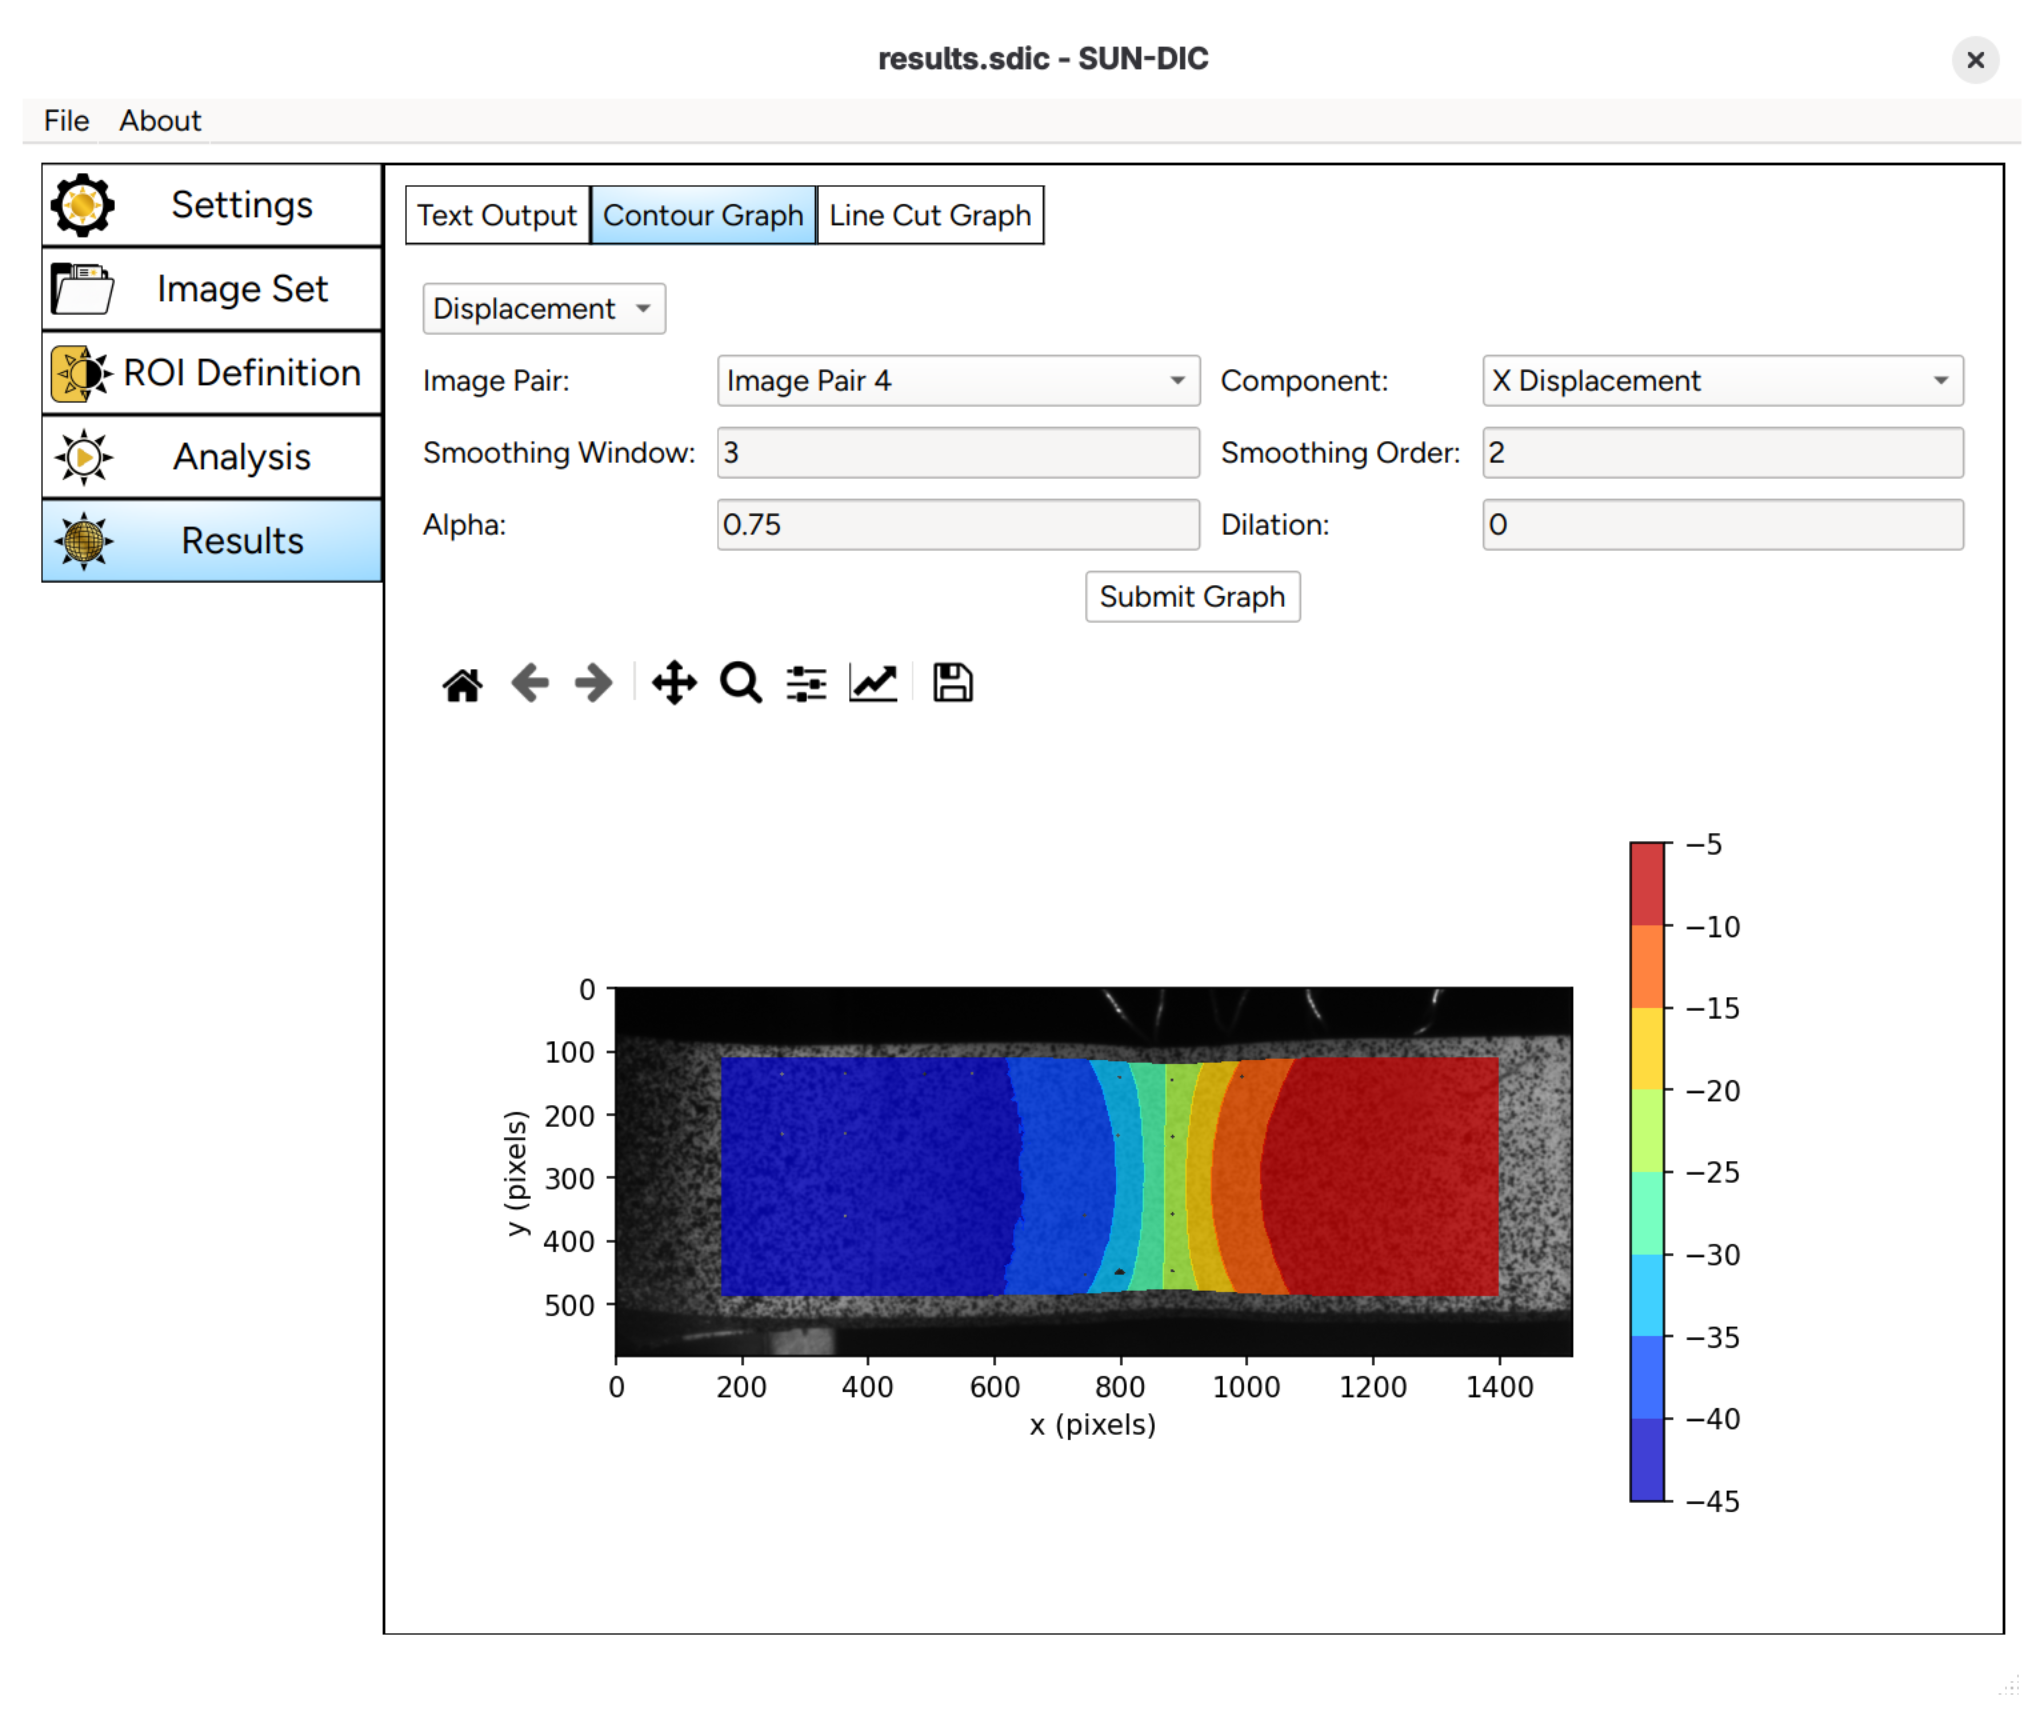
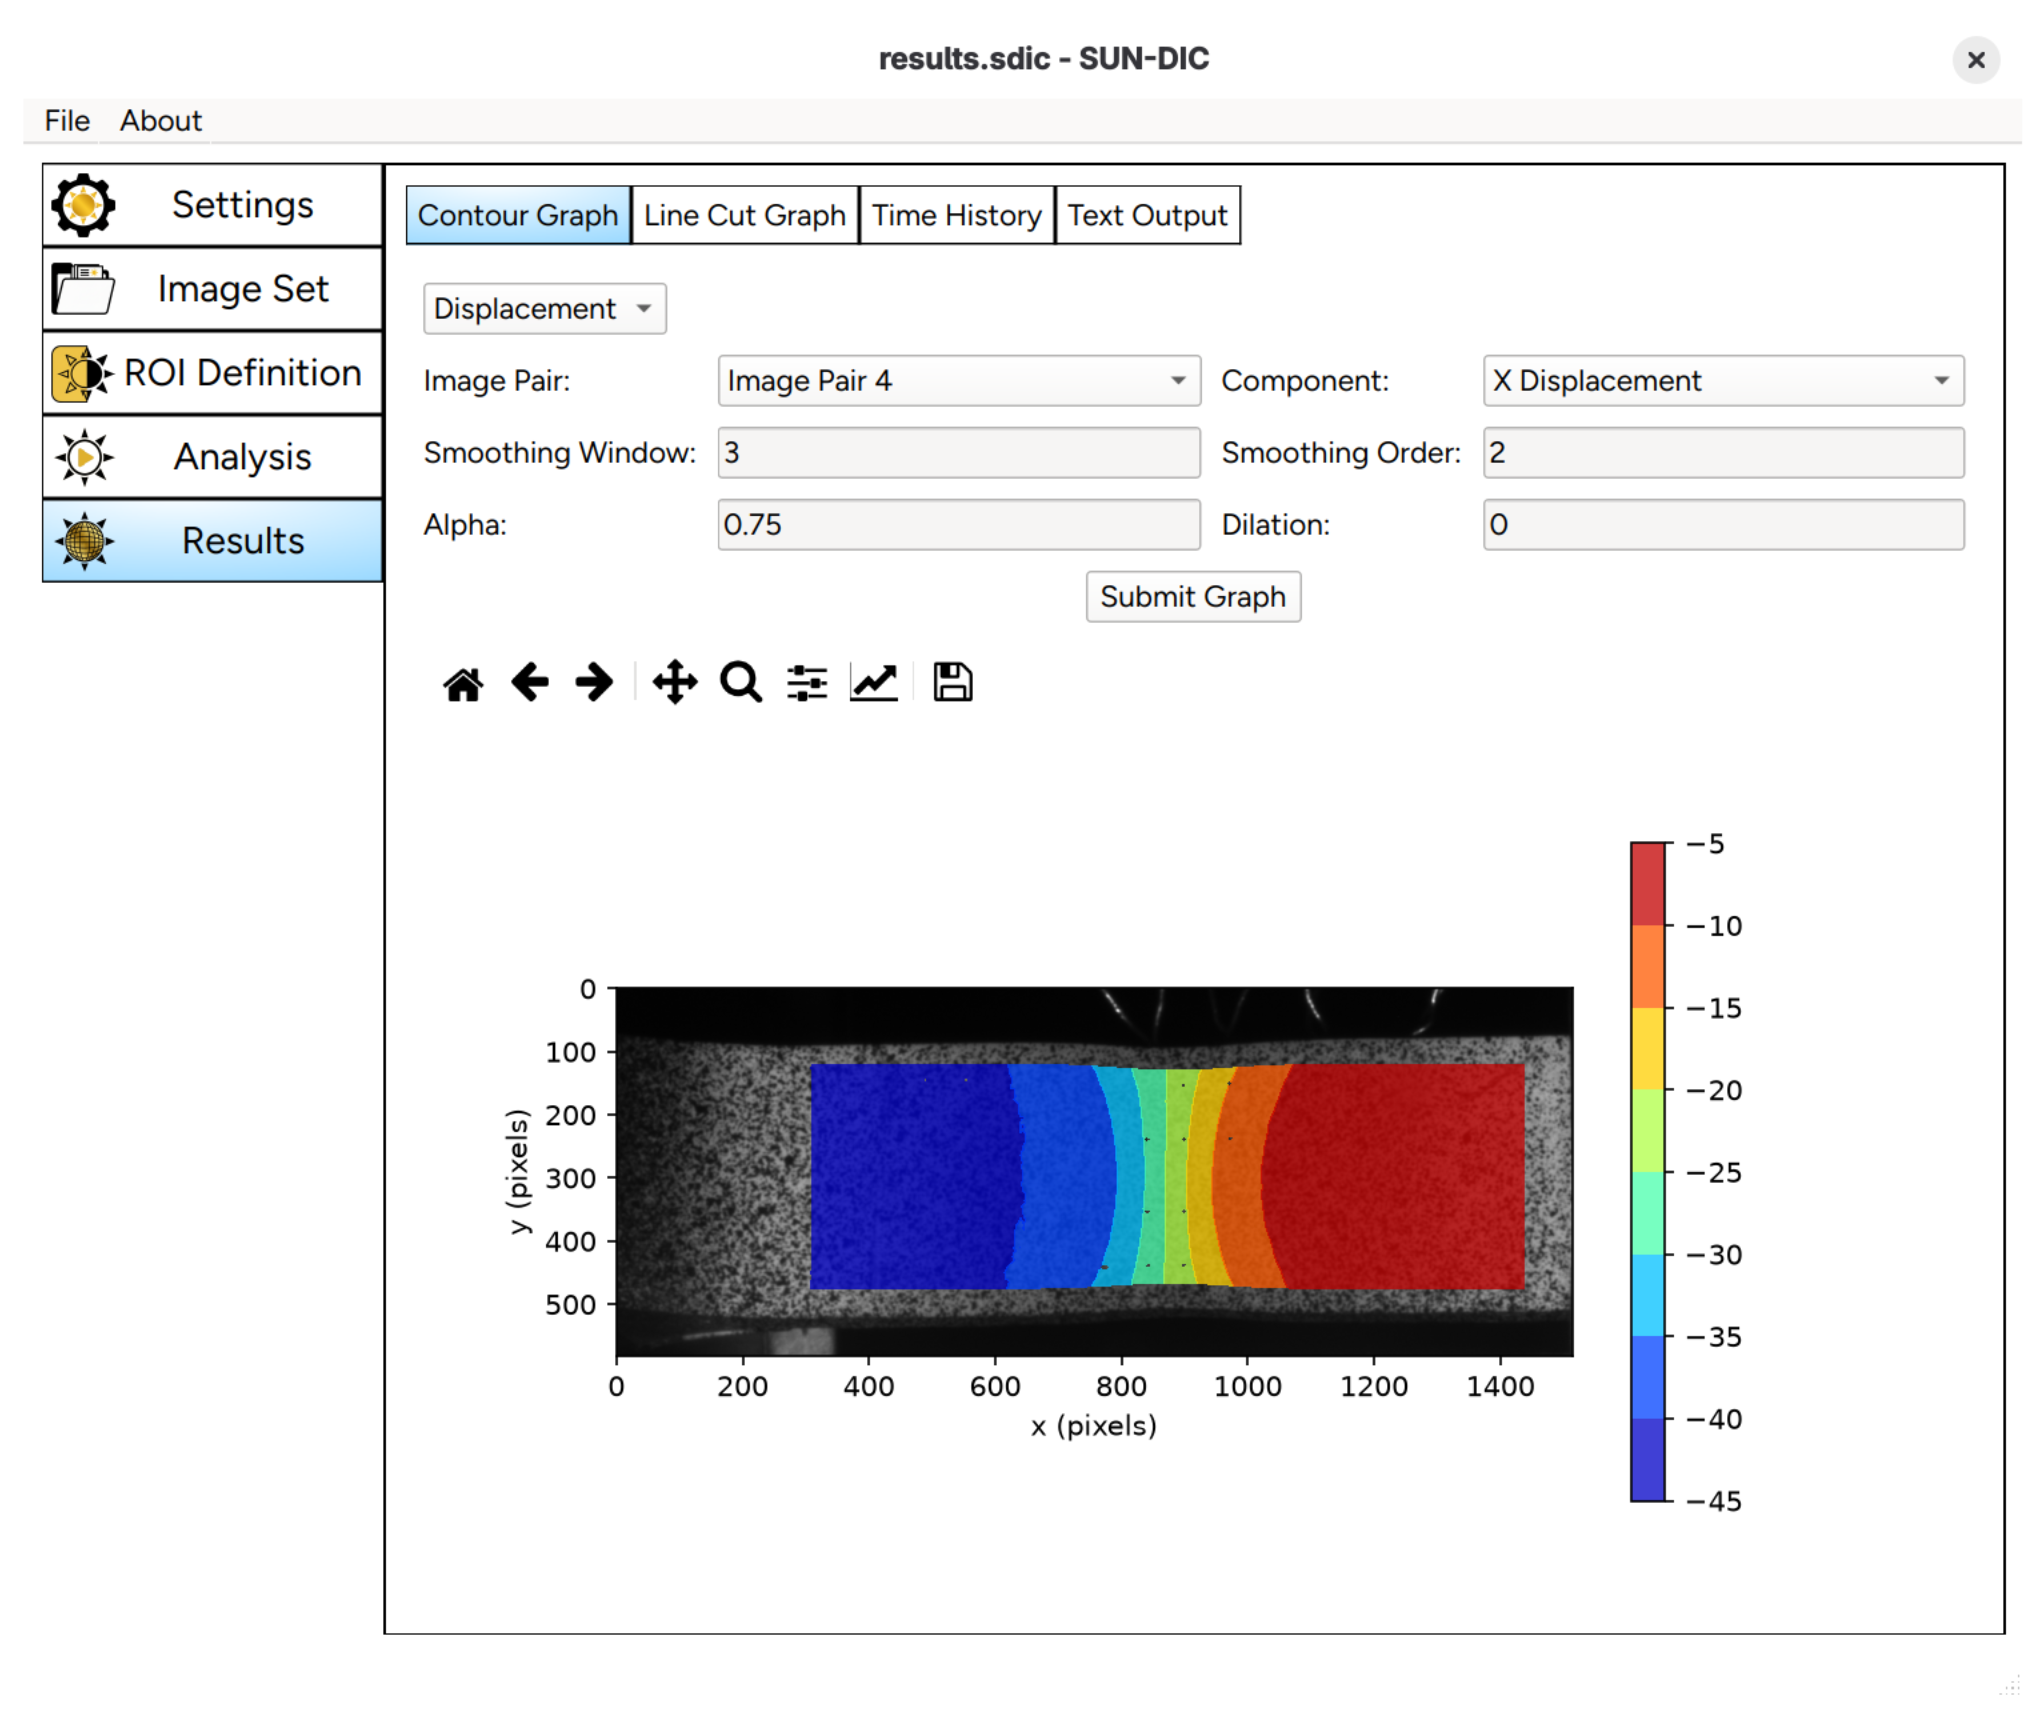
Updated the PDF manual and readme file with time history. Added a new daily test for the sundic package.

diff --git a/sundic/tests/daily_test.py b/sundic/tests/daily_test.py
@@ -1,0 +1,98 @@
+import os
+import numpy as np
+
+import sundic.settings as sdset
+import sundic.sundic as sdic
+import sundic.post_process as sdpp
+
+# ---------------------------------------------------------------------
+# Daily regression test for SUN-DIC
+#
+# Just make sure the code is still running with the latest dependencies
+# and that the results are within a reasonable tolerance of the expected 
+# values.
+#
+# This is called from the an github action workflow, but can also be run 
+# locally.
+#
+# For this to run, the settings.ini file and the planar_images directory
+# must be present in the same directory as this test file.  They can be
+# copied from the sundic/examples directory.
+#
+# To run, issue the following command
+#     pytest -q daily_test.py -s
+# ---------------------------------------------------------------------
+
+def test_daily_sundic_example_regression():
+
+    # The settings (input) and results (output) files
+    settings_file = "settings.ini"
+    results_file = "results.sdic"
+
+    # Make sure the settings file exists before running the test
+    assert os.path.exists(settings_file), f"Missing required file: {settings_file}"
+
+    # Make sure the planar_images directory exists before running the test
+    assert os.path.exists("planar_images"), "Missing required directory: planar_images"
+
+    # Load the settings file and set the debug level to 0 (no debug output)
+    settings = sdset.Settings.fromSettingsFile(settings_file)
+    settings.DebugLevel = 0
+
+    # Run the planar DIC analysis
+    sdic.planarDICLocal(settings, results_file)
+
+    # Get the displacements and check that they are reasonable
+    results, nRow, nCols = sdpp.getDisplacements(results_file, -1, smoothWindow=15)
+    assert results is not None and results.size > 0
+    assert nRow > 0 and nCols > 0
+
+    # Remove the rows with NaN values (if any) and check that the displacements are finite
+    results = results[~np.isnan(results).any(axis=1)]
+    assert results.size > 0
+
+    # Get the displacement componets and check that they are finite
+    ux = results[:, sdpp.DispComp.X_DISP]
+    uy = results[:, sdpp.DispComp.Y_DISP]
+    um = results[:, sdpp.DispComp.DISP_MAG]
+    assert np.isfinite(ux).all()
+    assert np.isfinite(uy).all()
+    assert np.isfinite(um).all()
+
+    # Calculate stats on the displacements and compare to expected values
+    stats = {
+        "ux_min": float(np.min(ux)),
+        "ux_max": float(np.max(ux)),
+        "ux_mean": float(np.mean(ux)),
+        "ux_std": float(np.std(ux)),
+        "uy_min": float(np.min(uy)),
+        "uy_max": float(np.max(uy)),
+        "uy_mean": float(np.mean(uy)),
+        "uy_std": float(np.std(uy)),
+        "um_min": float(np.min(um)),
+        "um_max": float(np.max(um)),
+        "um_mean": float(np.mean(um)),
+        "um_std": float(np.std(um)),
+    }
+    expected = {
+        "ux_min": -41.3179,
+        "ux_max": -6.8583,
+        "ux_mean": -24.2743,
+        "ux_std": 14.9013,
+        "uy_min": -8.5182,
+        "uy_max": 9.7297,
+        "uy_mean": 0.2014,
+        "uy_std": 1.9595,
+        "um_min": 6.8510,
+        "um_max": 41.2756,
+        "um_mean": 24.3615,
+        "um_std": 14.8894,
+    }
+
+    # Tolerance: tune if needed for platform/library drift.
+    atol = 0.005
+
+    # Make the comparison on the results
+    for k, exp in expected.items():
+        val = stats[k]
+        assert abs(val - exp) <= atol, f"{k}: got {val:.4f}, expected {exp:.4f}, |Δ|={abs(val-exp):.4f} > {atol}"

diff --git a/sundic/docs/sections/04_gui_example.tex b/sundic/docs/sections/04_gui_example.tex
@@ -147,6 +147,21 @@ The \codebf{Line Cut Graph} panel is used to create two-dimensional line plots t
 
 Click the \textbf{Submit Graph} button to generate the plot.
 
+\subsection{Time History}
+
+The \codebf{Time History} panel is used to create two-dimensional line plots of the selected output versus the image pair index.  It this provide a time history of the selected output.  One or more points can be tracked, with a line plot created for each point.  This panel provides the following options:
+
+\begin{itemize}
+	\item \codebf{Results} -- Choose Displacement or Strain data to plot.
+	\item \codebf{Points (x,y)} -- Comma-separated x,y pairs using semi-colon between points, e.g.\ \code{100,200; 120,250; 200,300}.
+	\item \codebf{Display Component} -- Select the field component: $u$ (X displacement), $v$ (Y displacement), displacement magnitude, $\varepsilon_x$, $\varepsilon_y$, $\varepsilon_{xy}$, or Von Mises strain $\varepsilon_\text{VM}$.
+	\item \codebf{Smoothing Window / Order} -- Window size and polynomial order for Savitzky--Golay smoothing.
+	\item \codebf{Interpolate} -- Interpolate data onto a uniform grid before plotting. When this option is selected, the exact cut values are used. Otherwise, the nearest row or column of subset centres is used.
+	\item \codebf{Grid Lines} -- Display grid lines on the graph.
+\end{itemize}
+
+Click the \textbf{Submit Graph} button to generate the plot or the \textbf{Export Data} button to export the graph data to a \code{.csv} output file.
+
 \subsection{Text Output}
 
 The \codebf{Text Output} panel is used to export the raw computed field data for external processing and provides the following options:

diff --git a/sundic/version.py b/sundic/version.py
@@ -1,4 +1,7 @@
-__version__ = "0.0.33"
+__version__ = "0.0.33a"
+# 0.0.34 - Update the readme file and user manual to reflect new functionality from
+#          version 0.0.33.
+#        - Added daily check workflow
 # 0.0.33 - Resolved dependency issue with headless opencv and AKAZE
 #        - Add post-processing functions to obtain displacement and strain time history 
 #          at specific points.  Both data and plots can be generated.

diff --git a/README.md b/README.md
@@ -279,8 +279,8 @@ url = {https://www.sciencedirect.com/science/article/pii/S0965997825001814},
 - **SUN-DIC analysis code**: based on work by **Ed Brisley** as part of his MEng degree at Stellenbosch University. His thesis is available through the [Stellenbosch University Library](https://scholar.sun.ac.za/items/7a519bf5-e62b-45cb-82f1-11f4969da23a).
 - **Interpolator**: uses `fast_interp` by David Stein, licensed under Apache 2.0. Repository: [fast_interp](https://github.com/dbstein/fast_interp)
 - **Smoothing algorithm**: implements the 2D Savitzky-Golay algorithm from the [SciPy Cookbook](https://scipy-cookbook.readthedocs.io/items/SavitzkyGolay.html)
-- **GUI development**: initial development by [Elijah Stockhall](https://github.com/EMStockhall/)
 - **Graphical design**: Dr. Melody Neaves
+- **Development**: Post-graduate students and visiting researchers from the [MOD Research Group](https://blogs.sun.ac.za/mod/) at Stellenbosch University
 
 
 # License